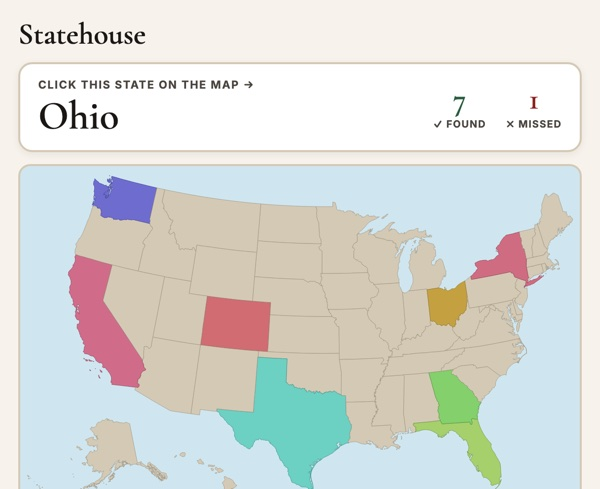
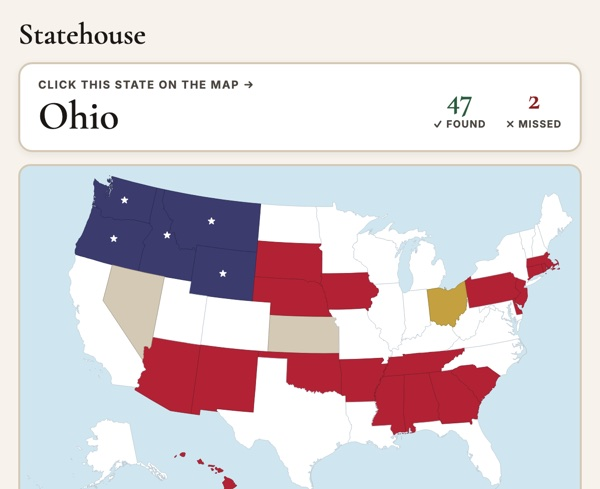
Statehouse: found states paint into a US flag
Replace the per-state hash colours with a flag paint keyed off each
state's position on the map: a blue canton with stars over the
top-left states, red and white stripes elsewhere. Completing all 50
states fills the map into a rough Stars and Stripes. Refreshed the
homepage tile and OG image to show the flag forming.

diff --git a/games/statehouse/index.html b/games/statehouse/index.html
@@ -258,10 +258,43 @@ let waitingForNext = false, advanceTimer = null, modeJustFinished = false;
 // mapscore: more correct wins, ties broken by fewer wrong (see streak-rail unit).
 function encodeScore(correct, wrong) { return correct * 1000 + (999 - Math.min(wrong, 999)); }
 
-// ---- found-state colours: a stable, varied hue per state ----
-function hashStr(s) { let h = 0; for (let i = 0; i < s.length; i++) h = (h * 31 + s.charCodeAt(i)) | 0; return Math.abs(h); }
-function colorFor(id) { const hue = hashStr(id) % 360; return { fill: `hsl(${hue}, 52%, 62%)`, stroke: `hsl(${hue}, 45%, 37%)` }; }
-function paintCompleted(el, id) { if (!el) return; const c = colorFor(id); el.style.fill = c.fill; el.style.stroke = c.stroke; el.style.strokeWidth = '0.7'; }
+// ---- found-state colours: paint each found state so a completed 50-state map
+// reads like the US flag - a blue canton with stars over the top-left states, and
+// red/white stripes elsewhere, keyed off each state's rough position on the map. ----
+const FLAG_W = 960, FLAG_H = 600;
+const CENTER = {};   // rough bbox centre per state, in map coords
+for (const [sid, sd] of Object.entries(US.paths)) {
+  const nums = sd.match(/-?\d+(?:\.\d+)?/g).map(Number);
+  let minX = 1e9, minY = 1e9, maxX = -1e9, maxY = -1e9;
+  for (let i = 0; i + 1 < nums.length; i += 2) {
+    const x = nums[i], y = nums[i + 1];
+    if (x < minX) minX = x; if (x > maxX) maxX = x; if (y < minY) minY = y; if (y > maxY) maxY = y;
+  }
+  CENTER[sid] = { x: (minX + maxX) / 2, y: (minY + maxY) / 2 };
+}
+function flagColor(id) {
+  const p = CENTER[id] || { x: FLAG_W / 2, y: FLAG_H / 2 };
+  if (p.x < FLAG_W * 0.40 && p.y < FLAG_H * 0.42) return { fill: '#3C3B6E', stroke: '#26264a', star: true };   // blue canton
+  return (Math.floor(p.y / (FLAG_H / 7)) % 2 === 0)
+    ? { fill: '#B22234', stroke: '#7c1826' }     // red stripe
+    : { fill: '#ffffff', stroke: '#b7c3cc' };    // white stripe
+}
+function addStar(id) {
+  const svg = document.querySelector('#mapContainer svg'), p = CENTER[id];
+  if (!svg || !p) return;
+  const s = document.createElementNS('http://www.w3.org/2000/svg', 'text');
+  s.setAttribute('x', p.x); s.setAttribute('y', p.y + 0.5);
+  s.setAttribute('text-anchor', 'middle'); s.setAttribute('dominant-baseline', 'central');
+  s.setAttribute('font-size', '14'); s.setAttribute('fill', '#fff'); s.setAttribute('pointer-events', 'none');
+  s.textContent = '★';
+  svg.appendChild(s);
+}
+function paintCompleted(el, id) {
+  if (!el) return;
+  const c = flagColor(id);
+  el.style.fill = c.fill; el.style.stroke = c.stroke; el.style.strokeWidth = '0.7';
+  if (c.star) addStar(id);
+}
 function setTitle(el, name) {
   if (!el) return;
   let t = el.querySelector('title');
